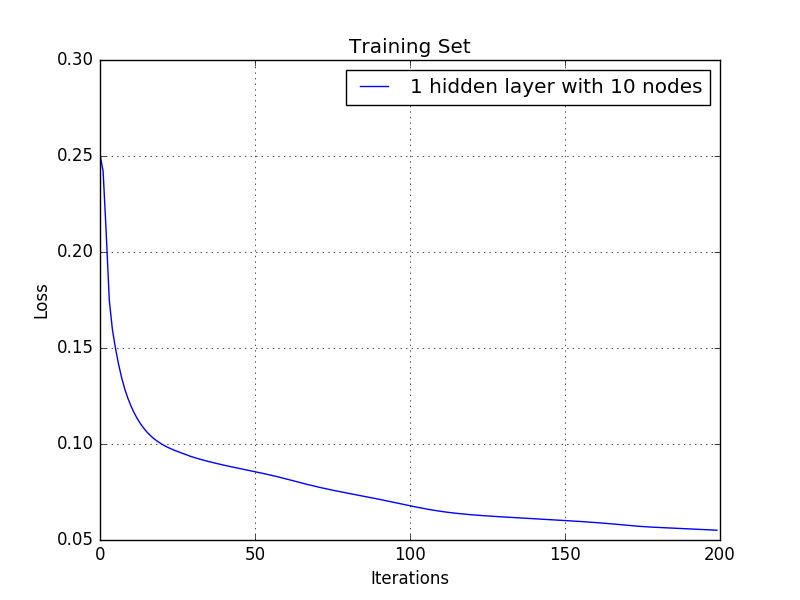
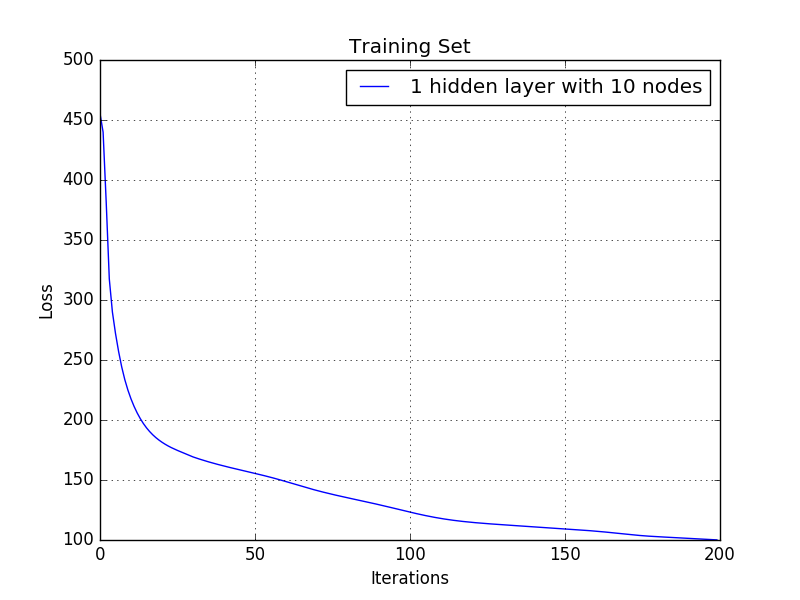
REGENERATED: loss graph with square based.

diff --git a/Assignment6/Code/assignments/prob1_neural_networks.py b/Assignment6/Code/assignments/prob1_neural_networks.py
@@ -58,7 +58,7 @@ def run(xTrainRaw, yTrainRaw, xTestRaw, yTestRaw,
                 # NN.train(xTrains, yTrains)
 
                 predictions = NN.predict()
-                loss = np.mean(np.square(yTrains - predictions))
+                loss = np.sum(np.square(yTrains - predictions)) / 2.
                 training_loss_data[case].append((i, loss))
 
                 predictions = NN.predict(xTests)

diff --git a/Assignment6/Report/prob1_neural_networks.md b/Assignment6/Report/prob1_neural_networks.md
@@ -4,17 +4,7 @@
 
 ### NeuralNetworks
 
-Implement learning of fully connected neural networks with an input layer, N hidden layers (and M nodes per hidden layer), and an output layer (with one output variable) using the Backpropagation algorithm as described in Mitchell with stochastic gradient descent.
-
-Train models with every combination of hidden layer in [1, 2] and hidden nodes per layer in [ 2, 5, 10, 15, 20 ]. For each, use 200 iterations with step size=0.05. NOTE: This will take a while to complete, you might want to verify all your parameters are working on smaller experiments before kicking off the full run.
-
-Produce a plot with one line for each of these run with the iteration number on the x axis and training set loss on the y axis. This loss is similar to your logistic regression assignment, but we used a slight variation for our Neural Network (Equation 4.2 in Mitchell). E() = 1/2 sum_sample (y^-y)^2 Produce a separate plot with one line for each of these runs but with the test set losses on the y axis
-
-Next take the model with 1 hidden layer and 2 nodes in that layer. Visualize the weights for each of the hidden nodes. There should be 12*12 weights (plus one for the bias, ignore it). Convert them to a 12 x 12 image where each pixel intensity is ~ 255 * abs(weight).
-
-Note: the VisualizeWeights function in Assignment5Support can do this for you.
-
-Hand in a writeup including:
+#### Hand in a writeup including:
 
     1 Point -- the two charts (all your training runs showing the train and test loss)
     1 Point -- the two visualizations (the weights for two hidden nodes)
@@ -25,13 +15,21 @@ Hand in a writeup including:
 
 ***
 
-|![prob1_training_loss.png](prob1_training_loss.png) | ![prob1_test_loss.png](prob1_test_loss.png)|
-|-|-|
+The loss results from training and test set shows similar gradient resent behavior overall. In 2 hidden layer cases, during early gradient descent steps, the network represents almost linear in both data set. And more nodes help model to accelerate the learning rate (dropping loss rate), but it causes the overfitting as each weight looks for their own local optimal values. I also noticed the model produced slightly higher learning rate on test set, but in general, the network produced similar loss results.  
+
+|# of Layers | Loss in Training Set | Loss in Test Set |
+|:-:|-|-|
+|1|![prob1_training_loss_1_20.png](prob1_training_loss_1_20.png) | ![prob1_test_loss_1_20.png](prob1_test_loss_1_20.png)|
+|2|![prob1_training_loss_2_20.png](prob1_training_loss_2_20.png) | ![prob1_test_loss_2_20.png](prob1_test_loss_2_20.png)|
+
+For 1 layer with 2 nodes case, I produced the images of two nodes at iteration 50 and 200. The image in third column helps to locate the pixcels where the values between two nodes are different.
 
 | Iterations |weights_node0_of_2_in_1_layer |weights_node1_of_2_in_1_layer | abs(weight delta) between nodes |
 |:-:|-|-|-|
 |50 |![weights_node0_of_2_in_1_layer_iter50](weights_node0_of_2_in_1_layer_iter50.jpg) | ![weights_node0_of_2_in_1_layer_iter50](weights_node1_of_2_in_1_layer_iter50.jpg) | ![weights_delta_btw_nodes_2_in_1_layer_iter50](weights_delta_btw_nodes_2_in_1_layer_iter50.jpg) |
 |200 |![weights_node1_of_2_in_1_layer](weights_node0_of_2_in_1_layer.jpg) | ![weights_node1_of_2_in_1_layer](weights_node1_of_2_in_1_layer.jpg) | ![weights_delta_btw_nodes_2_in_1_layer_iter200](weights_delta_btw_nodes_2_in_1_layer_iter200.jpg) |
+
+Parameter sweep identified the best accuracy, 0.927, with 12 layers and 15 nodes in 200 iterations.
 
 * Best Accuracy With 2 layers with 15 nodes (during 200 iterations)
 
@@ -47,11 +45,9 @@ Recall: 0.9130434782608695
 FPR: 0.06026058631921824
 FNR: 0.08695652173913043
 
-Overall acuracy graph -
+The accuracy graph from the network with 2 hidden layer indicates the network is underfitting data during early stage of gradient decents. And it behaviors the overfitting once 145 weights start fighting each other for their local optimal values.
 | Accuracy with Best Paramters | Overall Accuracies |
 |-|-|
 |![prob1_test_accuracy_2_15](prob1_test_accuracy_2_15.png) | ![prob1_test_accuracy_2_20](prob1_test_accuracy_2_20.png)|
 
-Overfit
-With 2 hiddle layers, it shows that 
 ***
